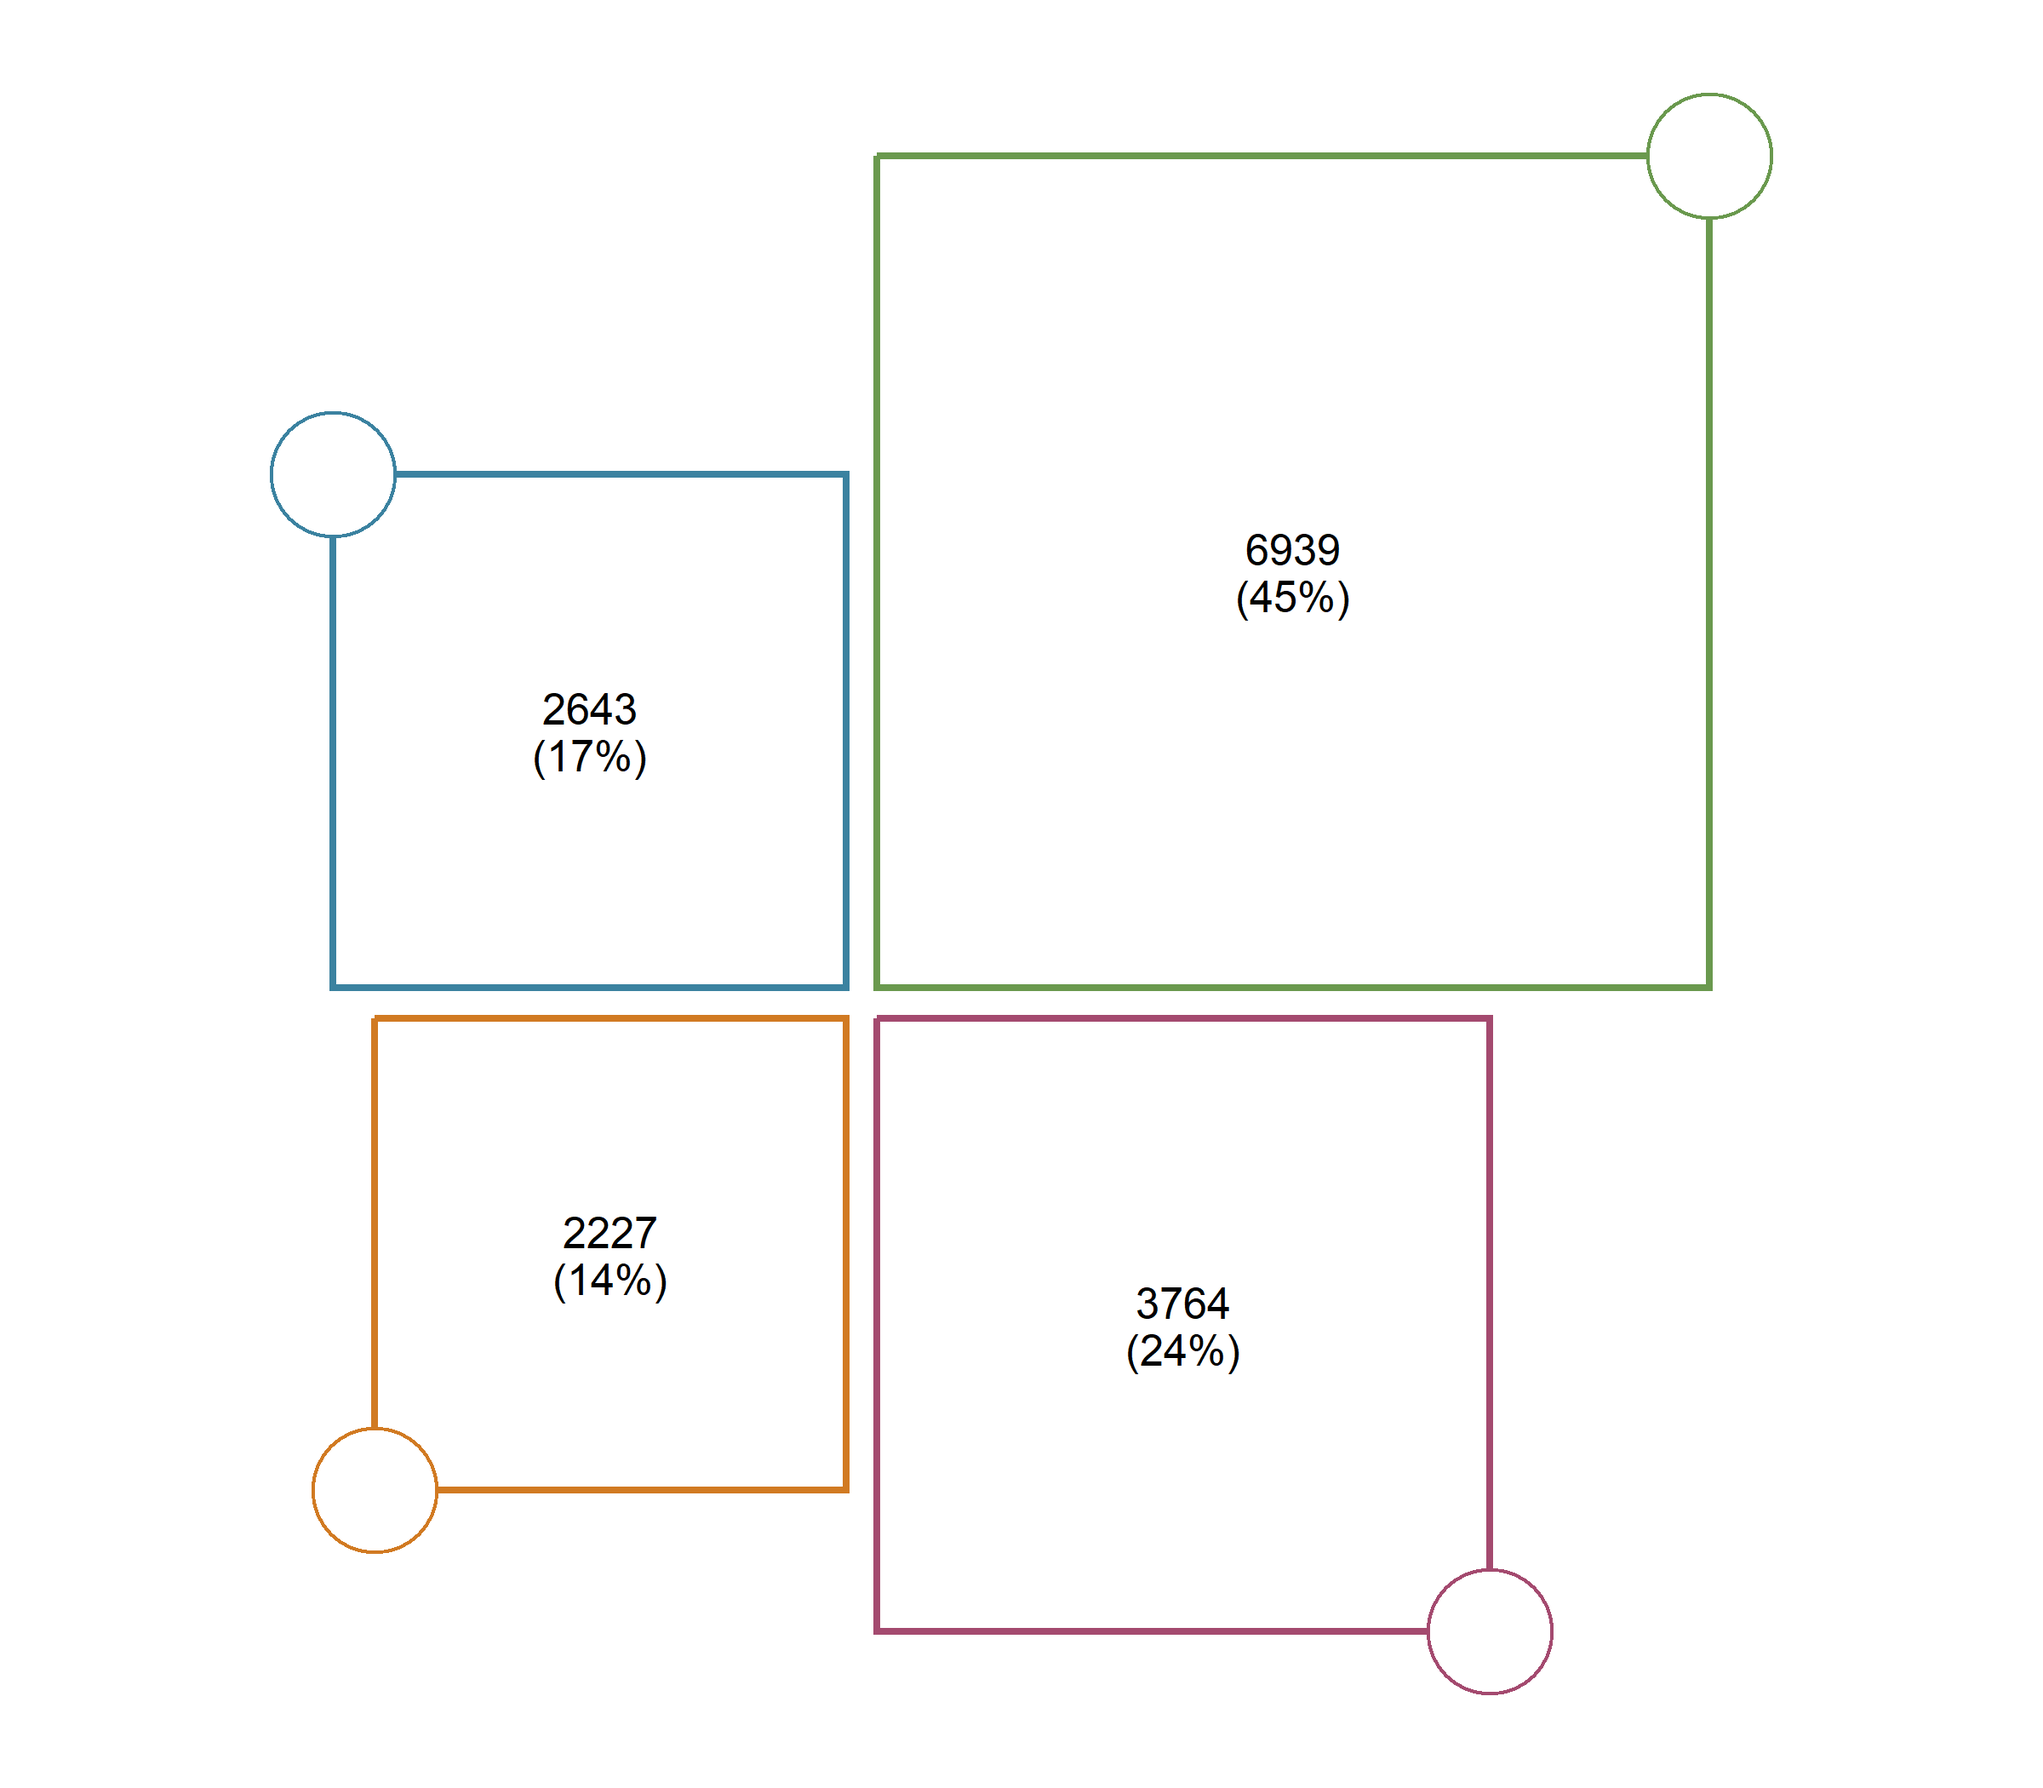
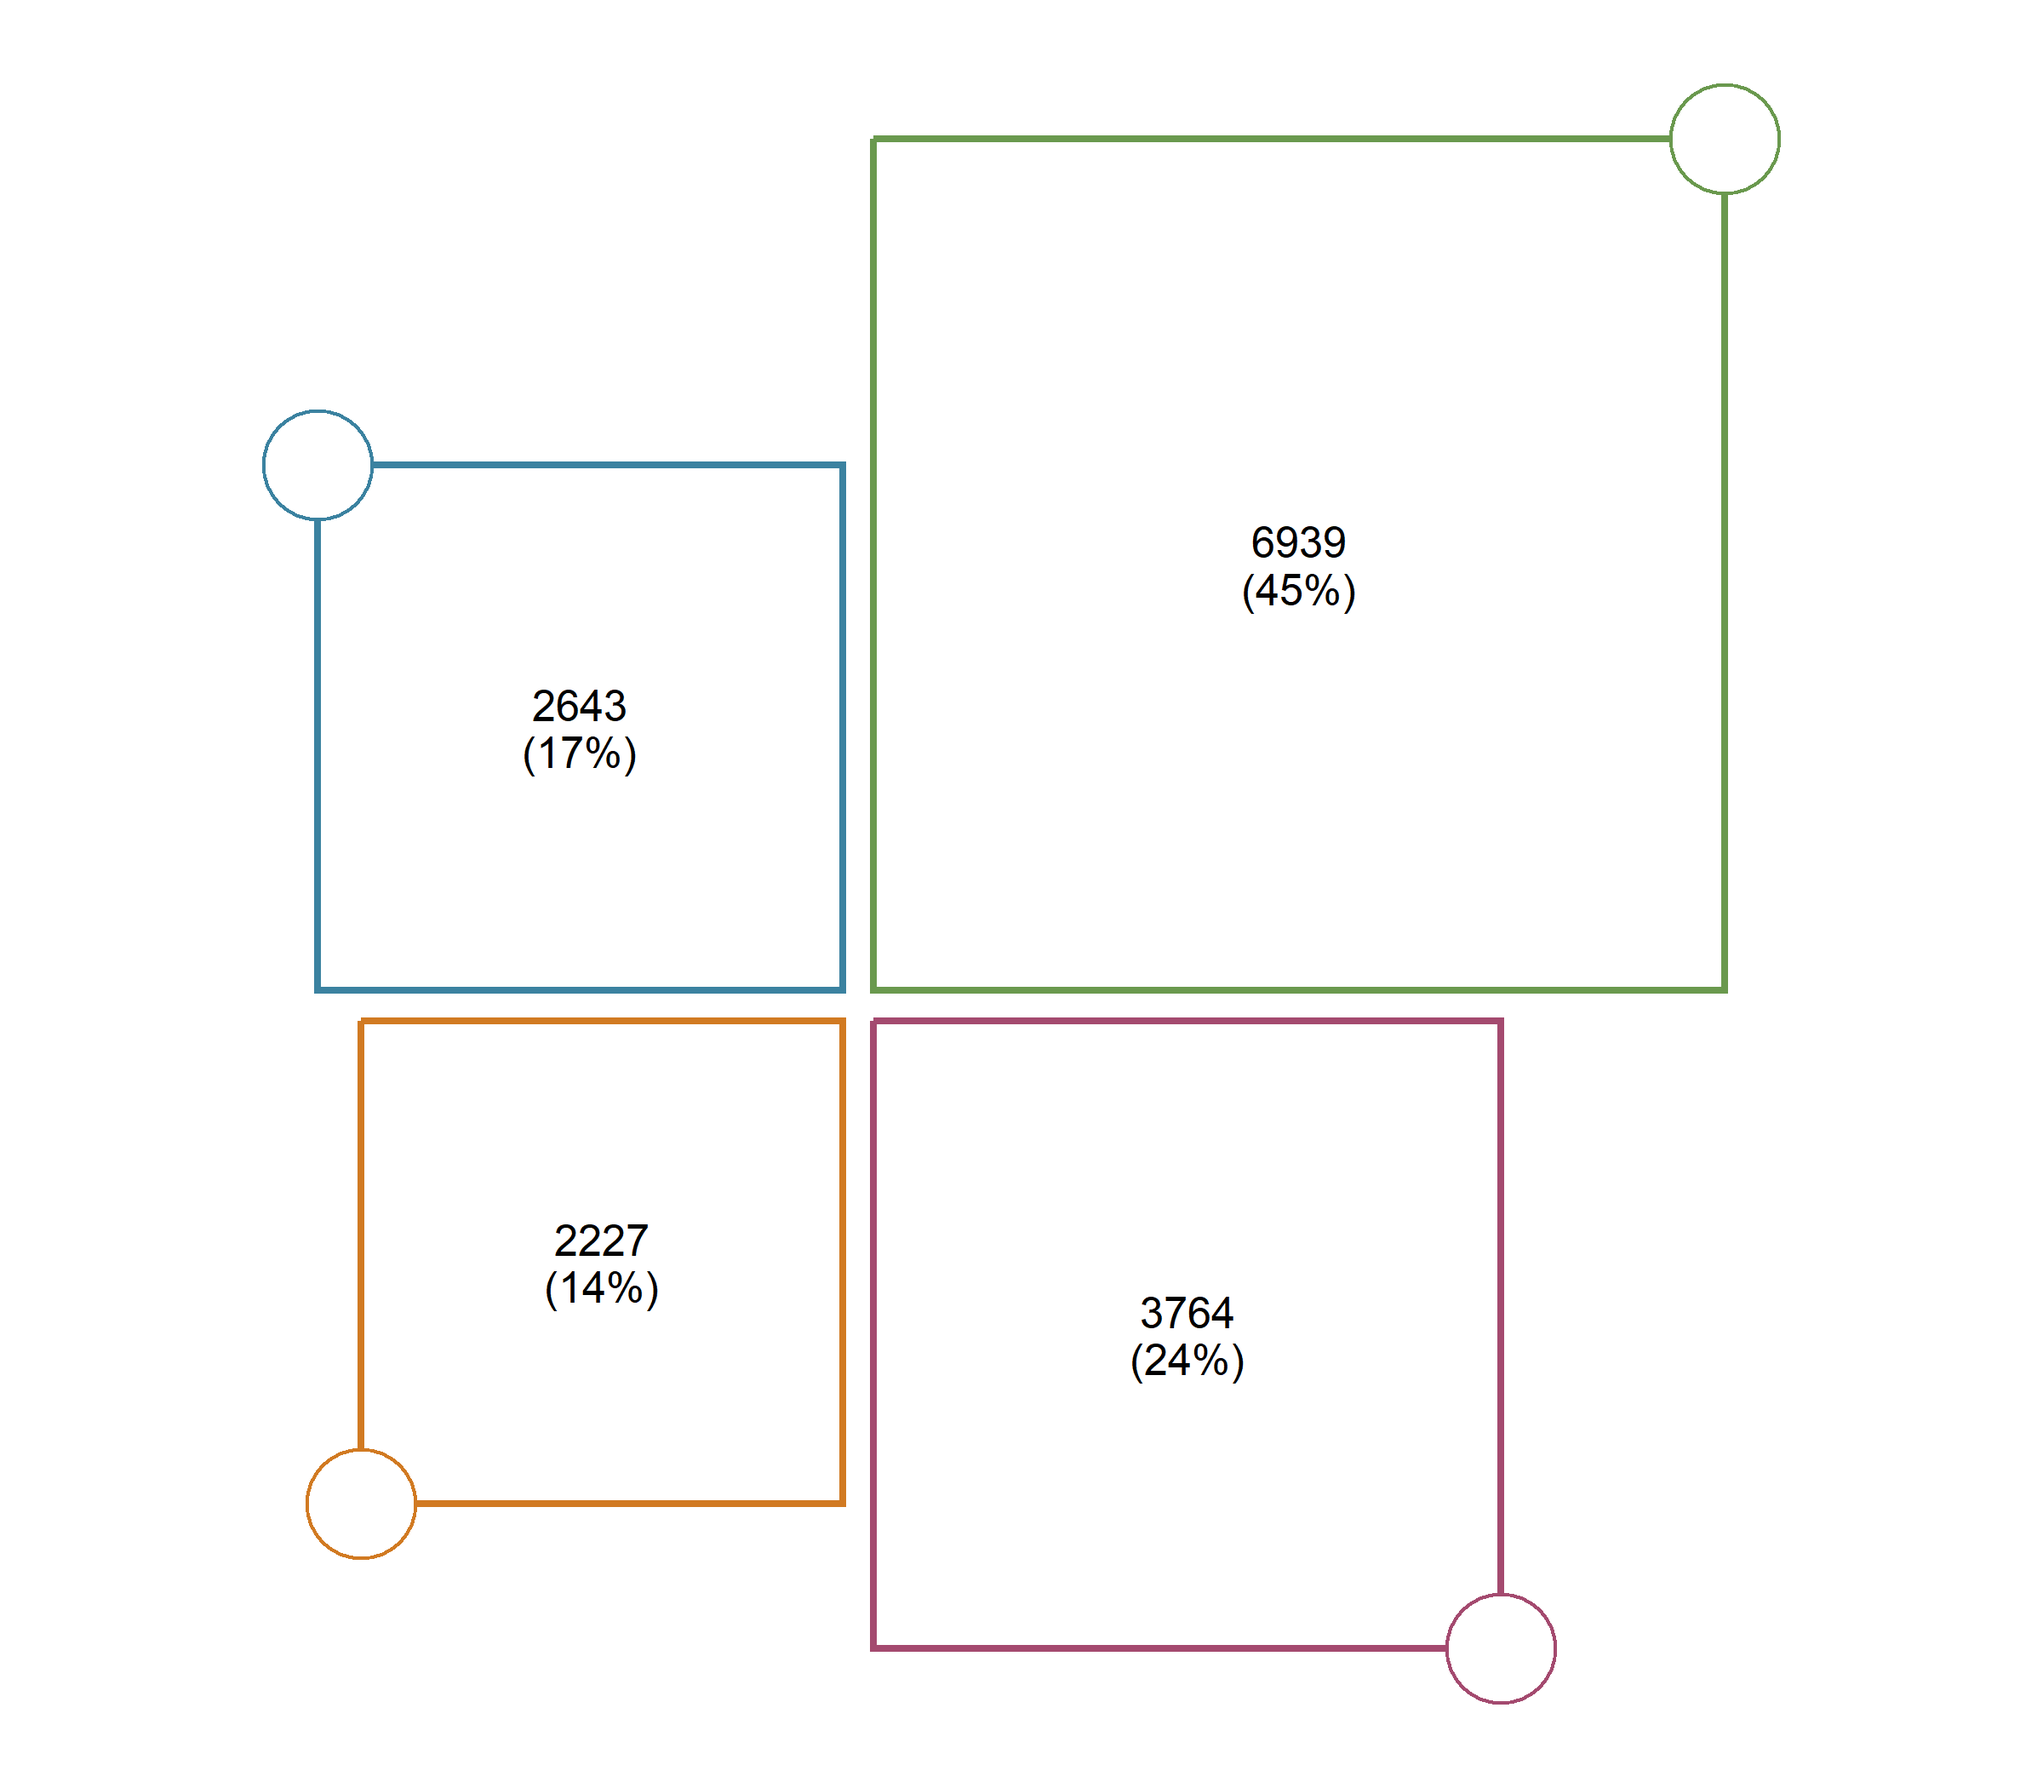
Fix relative size handling and update vignette

diff --git a/README.md b/README.md
@@ -55,6 +55,10 @@ create larger rectangles.
 Values can be supplied directly with `value` or from a data column with
 `value_col`. Layers then add styling, labels, shapes and annotations.
 
+Size-related arguments are relative to their defaults: `1` means the
+default size, values below `1` make an element smaller, and values above
+`1` make it larger.
+
 ``` r
 rect_plot4(data, value_col = "value") %>%
   rect_style() %>%
